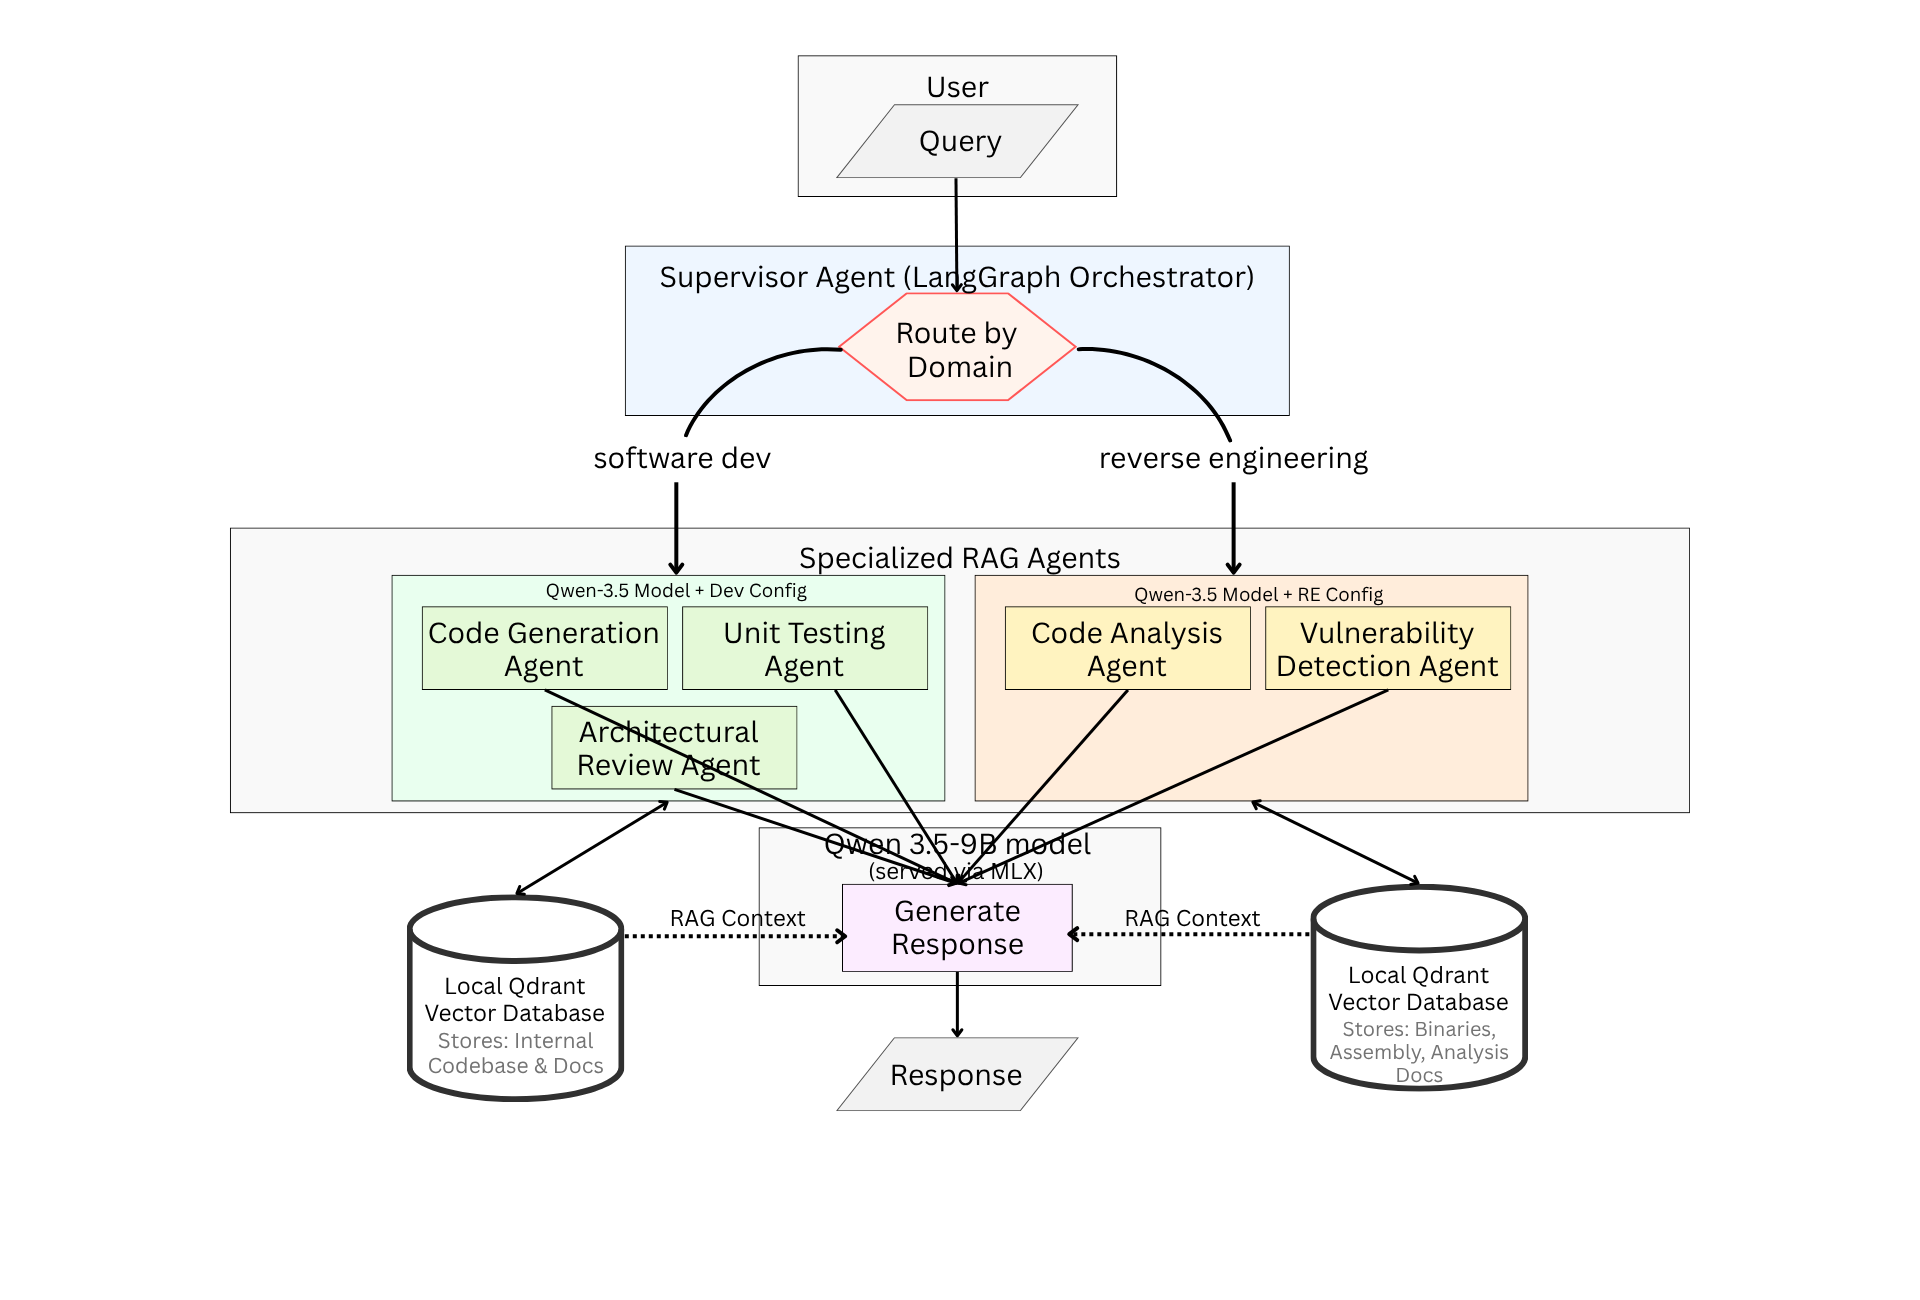
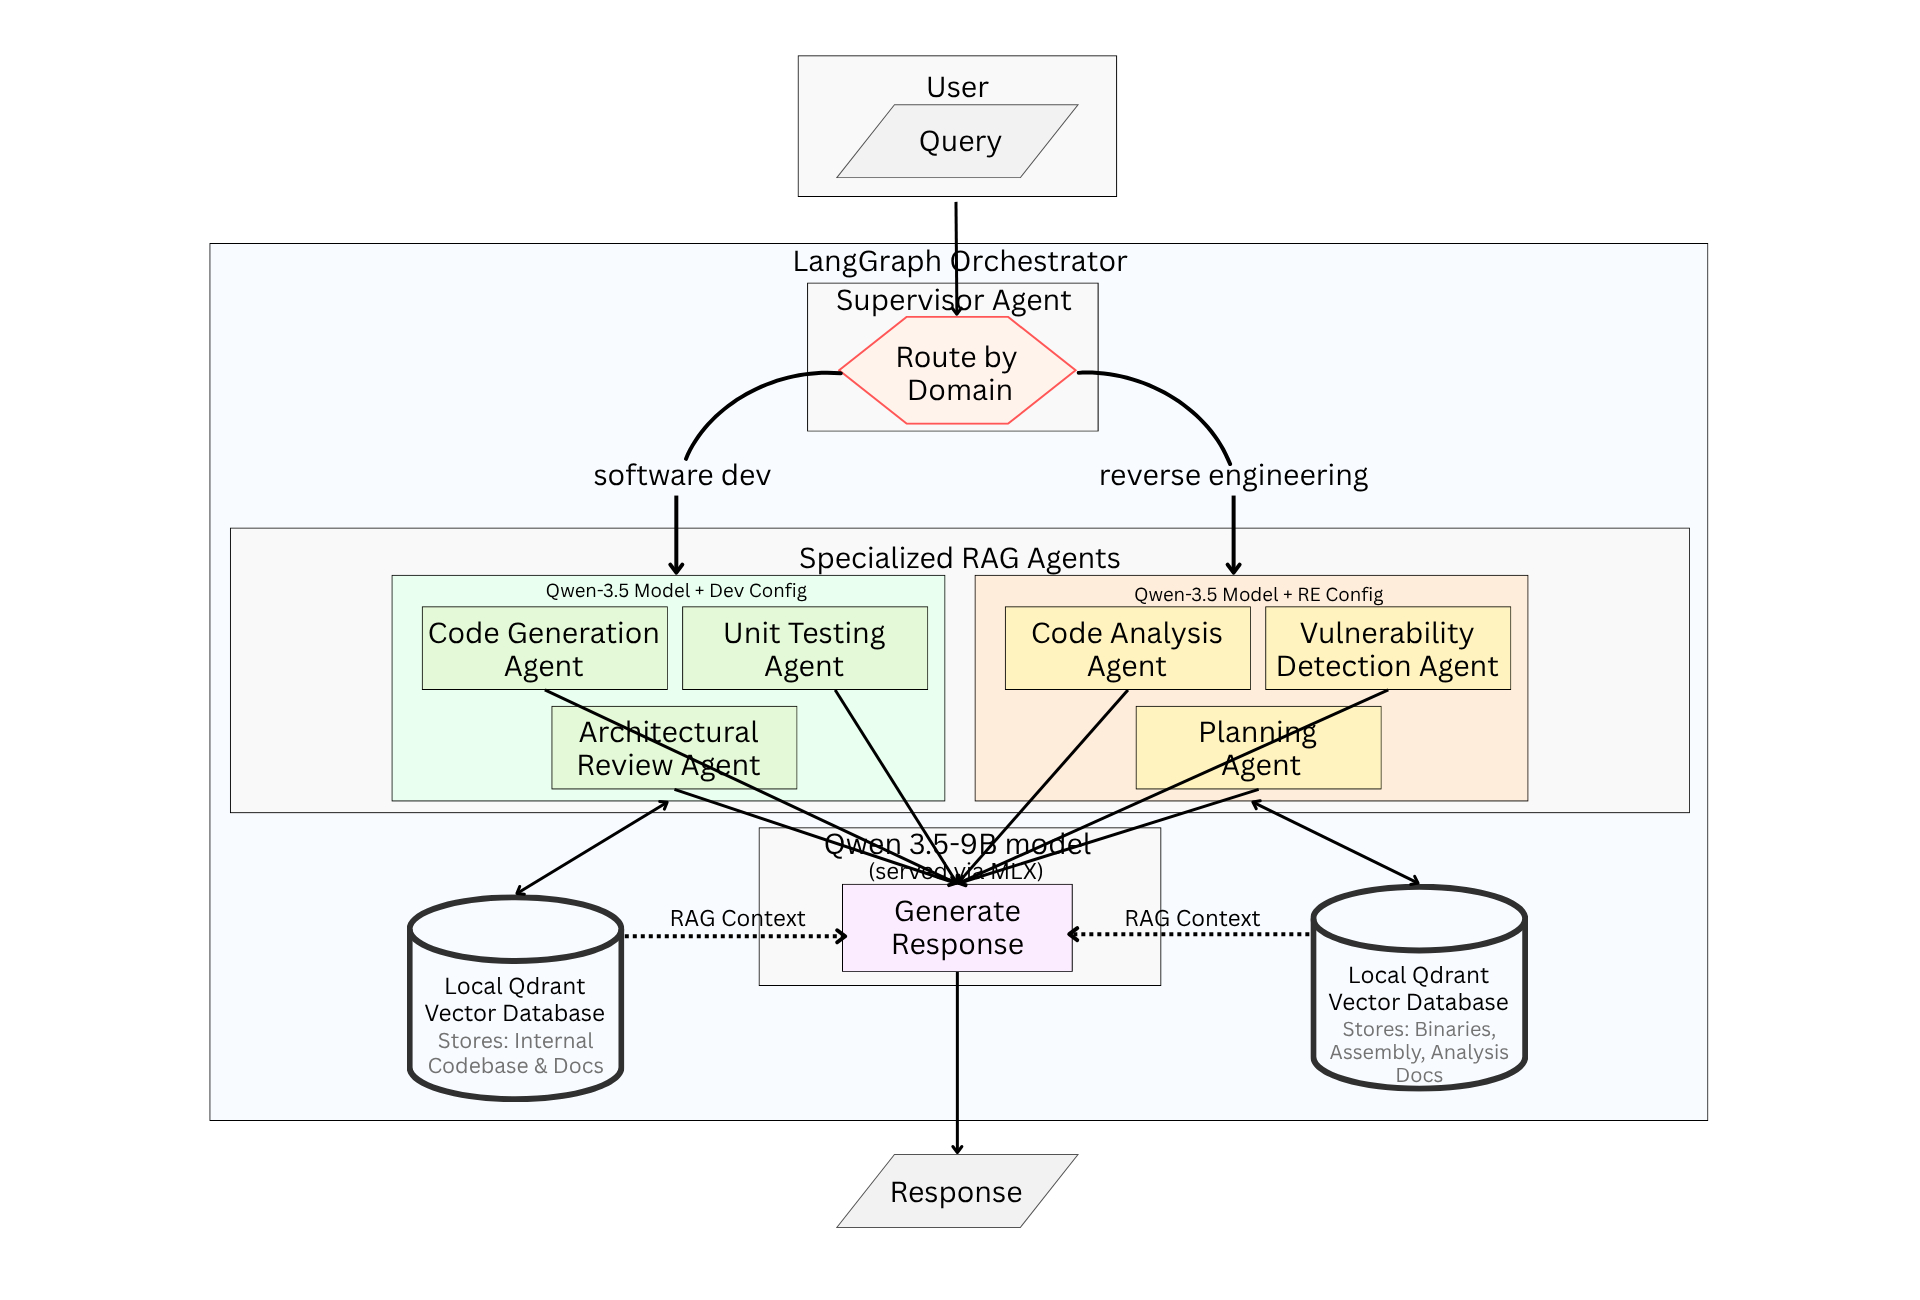
Update README with development and configuration information

diff --git a/README.md b/README.md
@@ -1,71 +1,109 @@
 # Local Multi-Agent Development System
 
-Local-first, LangGraph-based orchestration for two domains: software development and reverse engineering. A supervisor model routes requests to one or both branches and produces a unified result.
+Local-first, LangGraph-based orchestration for two domains: software development and reverse engineering. A supervisor routes requests to one or both branches and returns a unified result.
 
-## What This Provides
+## What This Repository Provides
 - Domain routing with optional dual-branch execution
 - Software development workflow: code generation, testing loop, architecture review
 - Reverse engineering workflow: planning, code analysis, vulnerability detection
-- FastAPI service for local use and integration with LangSmith Studio
+- FastAPI service for local use and LangSmith Studio integration
 - MLX-based local inference on Apple Silicon
+- Embedded Qdrant retrieval with hybrid transformer embeddings
 
 ## Tech Stack
 
 | Component | Technology |
 |---|---|
-| **Orchestration** | LangGraph |
-| **LLM Inference** | MLX + MLX-LM |
-| **State Management** | Pydantic |
-| **Vector Database** | Qdrant (Embedded) |
-| **Embeddings** | Sentence Transformers (all-MiniLM-L6-v2) |
-| **API Server** | FastAPI |
-| **Runtime** | Python 3.11+ |
+| Orchestration | LangGraph |
+| LLM inference | MLX + MLX-LM |
+| State management | Pydantic |
+| Vector database | Qdrant (embedded) |
+| Embeddings | Hybrid transformer embeddings (all-MiniLM, BGE, UniXcoder) |
+| API server | FastAPI |
+| Runtime | Python 3.11+ |
 
-## Flow (High-Level)
+## Architecture
+
+### System Architecture
 ![System Architecture](assets/system-architecture.png)
+
+### High-Level Flow
+![High-Level Flow](assets/high-level-flow.png)
+
+### LangGraph Flow
 ![LangGraph Flow](assets/langgraph.png)
 
-**Supervisor**
-- Classifies the request and selects execution domains
-- Splits tasks when both domains are relevant
+## Quickstart
 
-**Software Development Branch**
-- `retrieve_dev_context` 
-- `code_generation` → `unit_testing` (loop until pass or iteration cap)
-- `architectural_review` → `synthesize`
-
-**Reverse Engineering Branch**
-- `retrieve_re_context`
-- `planning` → `code_analysis` → `vulnerability_detection` → `synthesize`
-
-**Final Synthesis**
-- Merges branch outputs when both ran, otherwise returns the selected branch result
-
-## Quick Start
-
-Install:
+Create a virtual environment and install dependencies:
 ```bash
 python3 -m venv venv
 source venv/bin/activate
-pip install --upgrade pip
-pip install -r requirements.txt
+python3 -m pip install --upgrade pip
+python3 -m pip install -r requirements.txt
 ```
 
-Run examples:
+Run the example script:
 ```bash
 source venv/bin/activate
 python3 examples.py
 ```
 
-Run API server:
+API default address: `http://localhost:8000` (`API_HOST` and `API_PORT` are changeable)
+
+## How To Communicate With The Model
+
+1. Gradio chat interface (interactive local UI)
+2. CLI via API (`curl` to FastAPI `POST /invoke`)
+3. Direct Python graph invocation (run inside your own scripts/tests)
+
+### 1) Gradio chat interface
+
+Use this for quick local experimentation with a chat UX.
+
+```bash
+source venv/bin/activate
+python3 app.py
+```
+
+The UI includes:
+- Domain selector (`Software Dev` or `Reverse Engineering`)
+- Optional `Enable RAG Context` toggle
+- Chat interface with starter prompts
+
+Open: `http://127.0.0.1:7860`
+
+### 2) CLI via API endpoint
+
+Use this for scriptable calls, shell workflows, and external tool integration.
+
+First start the API server:
 ```bash
 source venv/bin/activate
 python3 api.py
 ```
 
-API default address: `http://localhost:8000`
+Then invoke the model from CLI:
+```bash
+curl -X POST http://localhost:8000/invoke \
+  -H "Content-Type: application/json" \
+  -d '{"user_input":"Implement an API auth flow and inspect it for vulnerabilities"}'
+```
 
-## Python Usage
+Example response shape:
+```json
+{
+  "selected_domain": "software_dev",
+  "agent_chain": ["retrieve_dev_context", "code_generation", "unit_testing"],
+  "final_output": "...",
+  "intermediate_outputs": ["..."]
+}
+```
+
+### 3) Direct Python graph invocation
+
+Use this when you want the orchestration flow embedded directly in Python code.
+
 ```python
 from langgraph_orchestration.schemas.state import AgentState
 from langgraph_orchestration.graphs.orchestration import build_orchestration_graph
@@ -90,36 +128,55 @@ print(result["final_output"])
 - `GET /assistants/{assistant_id}/schemas` input/output schemas
 - `GET /graph` graph nodes and edges
 - `GET /graph/schema` runnable schema
-- `POST /langgraph` LangSmith-friendly invocation
+- `POST /langgraph` LangSmith invocation
 - `GET /test-graph` LangSmith registration check
-- `GET /threads` list threads (placeholder)
+- `GET /threads` list threads placeholder
 - `POST /threads/{thread_id}/messages` send a message
 
-Example request:
-```bash
-curl -X POST http://localhost:8000/invoke \
-  -H "Content-Type: application/json" \
-  -d '{"user_input": "Implement an API auth flow and inspect it for vulnerabilities"}'
+## Embedding Models And Retrieval
+
+Hybrid embedding architecture with one model per retrieval purpose.
+
+| Purpose | Embedding Model | Where It Is Active |
+|---|---|---|
+| General docs | [all-MiniLM-L6-v2](https://huggingface.co/mlx-community/all-MiniLM-L6-v2-4bit) | - Used during ingestion for shared knowledge base<br>- Used at runtime to embed `agents_shared` queries for retrieval |
+| Code retrieval | [bge-small-en-v1.5-6bit](https://huggingface.co/mlx-community/bge-small-en-v1.5-6bit) | - Used during ingestion for `agents_software_dev` code index<br>- Used at runtime to embed `agents_software_dev` queries for semantic code search |
+| Reverse engineering | [UniXcoder](https://huggingface.co/microsoft/unixcoder-base) | - Used during ingestion for RE corpus<br>- Used at runtime to embed `agents_reverse_engineering` queries for program-understanding search |
+
+Qdrant storage layout (embedded local DB):
+```text
+~/.local/share/qdrant/
+├── agents_software_dev (code retrieval)
+├── agents_reverse_engineering (RE)
+└── agents_shared (general docs)
 ```
 
 ## Configuration Notes
 - Inference uses MLX/MLX-LM and expects a compatible local model
 - LangSmith tracing is enabled when `LANGSMITH_TRACING=true`
 - API host and port are controlled by `API_HOST` and `API_PORT`
+- If you see `Model type qwen3_5 not supported`, upgrade `mlx-lm` or select a model supported by your current runtime
 
-If you see `Model type qwen3_5 not supported`, upgrade `mlx-lm` or select a model supported by your current runtime.
-
-## Dev and Benchmarks
+## Dev And Benchmarks
 - Compile check: `python3 -m compileall langgraph_orchestration api.py`
 - No-RAG benchmark harness: `python3 benchmarks/no_rag_harness.py`
 - Harness validation: `python3 benchmarks/validate_harness.py`
+- LangGraph local dev server with tracing UI:
+  1. Create a LangSmith account and generate an API key.
+  2. Set tracing env vars in `.env` (used by `langgraph.json`):
+     - `LANGSMITH_API_KEY=<your_key>`
+     - `LANGSMITH_TRACING=true`
+     - `LANGSMITH_PROJECT=local-multi-agent-dev` 
+  3. Stop other local API servers first (e.g. `python3 api.py`/other service bound to the same ports).
+  4. Start dev server from repo root: `langgraph dev`
+  5. Open the local LangGraph Studio URL printed in terminal to inspect traces and runs.
 
 ## References
-- **LangGraph**: https://langchain-ai.github.io/langgraph/
-- **Pydantic**: https://docs.pydantic.dev/
-- **Qdrant**: https://qdrant.tech/documentation/
-- **Sentence Transformers**: https://www.sbert.net/
-- **MLX**: https://ml-explore.github.io/mlx/
-- **FastAPI**: https://fastapi.tiangolo.com/
+- LangGraph: https://langchain-ai.github.io/langgraph/
+- Pydantic: https://docs.pydantic.dev/
+- Qdrant: https://qdrant.tech/documentation/
+- Sentence Transformers: https://www.sbert.net/
+- MLX: https://ml-explore.github.io/mlx/
+- FastAPI: https://fastapi.tiangolo.com/
 
 Last updated: May 2026